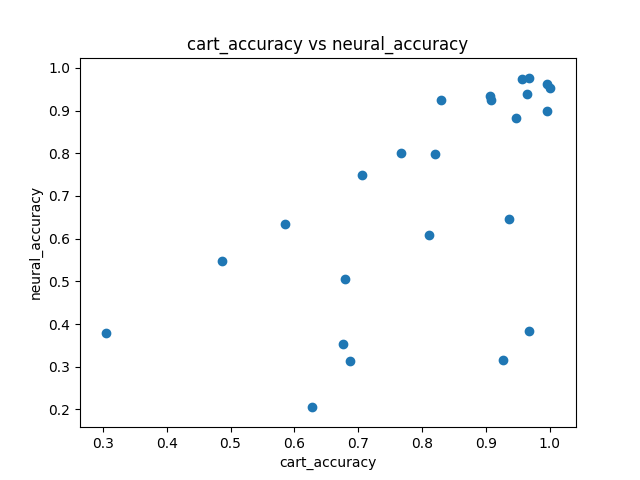
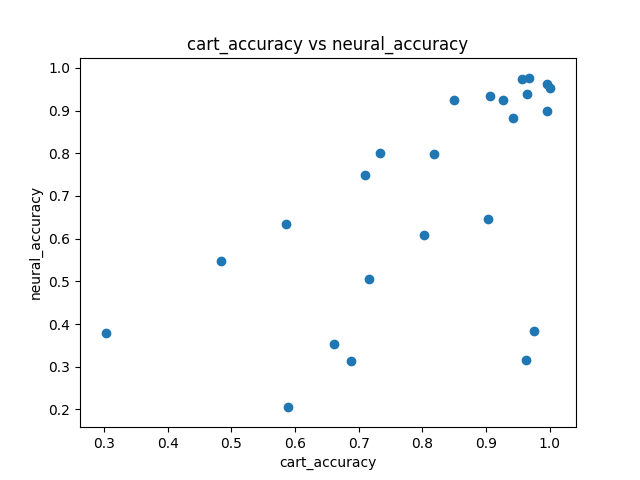
Analysis should include more databases for testing

diff --git a/meta-regressor.py b/meta-regressor.py
@@ -6,6 +6,7 @@ import math
 # from irlmaths import outliers
 from sklearn.model_selection import train_test_split
 from sklearn import metrics
+from sklearn.linear_model import LinearRegression
 from scipy import stats
 
 def outliers(df):
@@ -41,7 +42,8 @@ def knn(df, target):
     entropies = []
 
     for column in df.select_dtypes(include=['int64']).columns:
-        entropies.append(stats.entropy(df[column], base=2))
+        if not(np.isnan(stats.entropy(df[column], base=2))):
+            entropies.append(stats.entropy(df[column], base=2))
 
     df_mean_entropy = np.mean(entropies)
 
@@ -107,9 +109,9 @@ def knn(df, target):
             a1 = meta_df[c].iloc[0]
             a2 = x[c].iloc[i]
 
-            # if (c == 'discrete_ratio') and (a1 == 1.0) and (a2 != 1.0):
-            #     d2 = 1000000000000
-            #     break
+            if (c == 'discrete_ratio') and (a1 == 1.0) and (a2 != 1.0):
+                d2 = 1000000000000
+                break
 
             d2 = d2 + (a1 - a2) ** 2
         d.append(math.sqrt(d2))
@@ -122,7 +124,7 @@ def knn(df, target):
     distances = distances.sort_values(by=['distances'])
     near_db = distances.iloc[0,0]
 
-    print(distances)
+    # print(distances)
 
     ranking = y[y['db']==near_db]
 
@@ -140,6 +142,112 @@ def knn(df, target):
         recomendation = 'neural'
 
     return recomendation + '(' + near_db + ')'
+
+def linear(df, target):
+
+    if 'Unnamed: 0' in df.columns:
+        del df['Unnamed: 0'] # a small workaround regarding csv exporting issues
+
+    # metadata extraction for the new database
+
+    df_examples = np.log2(df.count()[0])
+    df_attributes = np.log2(len(df.columns))
+    df_discrete_ratio = len(df.select_dtypes(include=['int64']).columns) / len(df.columns)
+
+    df_classes = len(df[target].value_counts())
+    df_entropy = stats.entropy(df[target], base=2)
+
+    df_outliers = outliers(df) / df.count()[0]
+
+    entropies = []
+
+    for column in df.select_dtypes(include=['int64']).columns:
+        if not(np.isnan(stats.entropy(df[column], base=2))):
+            entropies.append(stats.entropy(df[column], base=2))
+
+    df_mean_entropy = np.mean(entropies)
+
+    for column in df.select_dtypes(include=['int64']).columns:
+        del df[column]
+
+    df_mean_correlation = np.abs(df.corr()).mean().mean()
+
+    df_mean_skew = df.skew().mean()
+
+    df_mean_kurtosis = df.kurtosis().mean()
+
+    table = {
+        'examples': df_examples,
+        'attributes': df_attributes,
+        'discrete_ratio': df_discrete_ratio,
+        'mean_entropy': df_mean_entropy,
+        'mean_correlation': df_mean_correlation,
+        'mean_skew': df_mean_skew,
+        'mean_kurtosis': df_mean_kurtosis,
+        'outliers': df_outliers,
+        'classes': df_classes,
+        'entropy': df_entropy
+    }
+
+    columns = ['examples', 'attributes', 'discrete_ratio', 'mean_entropy', 'mean_correlation', 'mean_skew', 'mean_kurtosis', 'outliers', 'classes', 'entropy']
+
+    meta_df = pd.DataFrame(table, columns=columns, index=[0])
+
+    print(meta_df)
+
+    meta_df = meta_df.fillna(0)
+    meta_df = meta_df.replace(np.inf, 100)
+    meta_df = meta_df.replace(-np.inf, -100)
+
+    knowledge_df = pd.read_csv('./results/meta-knowledge.csv')
+    del knowledge_df['Unnamed: 0']
+
+    knowledge_df = knowledge_df.fillna(0)
+    knowledge_df = knowledge_df.replace(np.inf, 100)
+    knowledge_df = knowledge_df.replace(-np.inf, -100)
+
+    db = knowledge_df['db']
+
+    # really strong influence over the knn algorithm, maybe it will not be used
+    # del knowledge_df['examples']
+    # del knowledge_df['attributes']
+    # del meta_df['examples']
+    # del meta_df['attributes']
+
+    y_cart = knowledge_df['cart_accuracy']
+    y_naive = knowledge_df['naive_accuracy']
+    y_neural = knowledge_df['neural_accuracy']
+
+    del knowledge_df['db']
+    del knowledge_df['cart_accuracy']
+    del knowledge_df['naive_accuracy']
+    del knowledge_df['neural_accuracy']
+    x = knowledge_df
+
+    # cart regression
+
+    linear = LinearRegression()
+    linear.fit(x, y_cart)
+    cart_pred = linear.predict(meta_df)
+
+    linear = LinearRegression()
+    linear.fit(x, y_naive)
+    naive_pred = linear.predict(meta_df)
+
+    linear = LinearRegression()
+    linear.fit(x, y_neural)
+    neural_pred = linear.predict(meta_df)
+
+    recomendation = ''
+
+    if cart_pred > naive_pred and cart_pred > neural_pred:
+        recomendation = 'cart'
+    if naive_pred > cart_pred and naive_pred > neural_pred:
+        recomendation = 'naive'
+    if neural_pred > cart_pred and neural_pred > naive_pred:
+        recomendation = 'neural'
+
+    return recomendation
 
 from sklearn.tree import DecisionTreeClassifier
 
@@ -219,7 +327,7 @@ print('---------------------------------------------------')
 
 poker = pd.read_csv('./test/poker.csv')
 
-print('database poker recomendation: ', knn(poker, 'class'))
+print('database poker recomendation: ', linear(poker, 'class'))
 print('cart_accuracy', cart('./test/poker.csv', 'class'))
 print('naive_accuracy', naive('./test/poker.csv', 'class'))
 print('neural_accuracy', neural('./test/poker.csv', 'class'))
@@ -229,7 +337,7 @@ print('---------------------------------------------------')
 
 agaricus = pd.read_csv('./test/agaricus-lepiota.csv')
 
-print('database agaricus recomendation: ', knn(agaricus, 'class'))
+print('database agaricus recomendation: ', linear(agaricus, 'class'))
 print('cart_accuracy', cart('./test/agaricus-lepiota.csv', 'class'))
 print('naive_accuracy', naive('./test/agaricus-lepiota.csv', 'class'))
 print('neural_accuracy', neural('./test/agaricus-lepiota.csv', 'class'))
@@ -239,7 +347,7 @@ print('---------------------------------------------------')
 
 car = pd.read_csv('./test/car.csv')
 
-print('database car recomendation: ', knn(car, 'class'))
+print('database car recomendation: ', linear(car, 'class'))
 print('cart_accuracy', cart('./test/car.csv', 'class'))
 print('naive_accuracy', naive('./test/car.csv', 'class'))
 print('neural_accuracy', neural('./test/car.csv', 'class'))
@@ -249,7 +357,7 @@ print('---------------------------------------------------')
 
 lung = pd.read_csv('./test/lung-cancer.csv')
 
-print('database lung recomendation: ', knn(lung, 'A1'))
+print('database lung recomendation: ', linear(lung, 'A1'))
 print('cart_accuracy', cart('./test/lung-cancer.csv', 'A1'))
 print('naive_accuracy', naive('./test/lung-cancer.csv', 'A1'))
 print('neural_accuracy', neural('./test/lung-cancer.csv', 'A1'))
@@ -259,7 +367,7 @@ print('---------------------------------------------------')
 
 vehicle = pd.read_csv('./test/vehicle.csv')
 
-print('database vehicle recomendation: ', knn(vehicle, 'A19'))
+print('database vehicle recomendation: ', linear(vehicle, 'A19'))
 print('cart_accuracy', cart('./test/vehicle.csv', 'A19'))
 print('naive_accuracy', naive('./test/vehicle.csv', 'A19'))
 print('neural_accuracy', neural('./test/vehicle.csv', 'A19'))

diff --git a/irlmaths.py b/irlmaths.py
@@ -38,7 +38,8 @@ def metadata(df, path, target):
     entropies = []
 
     for column in df.select_dtypes(include=['int64']).columns:
-        entropies.append(stats.entropy(df[column], base=2))
+        if not(np.isnan(stats.entropy(df[column], base=2))):
+            entropies.append(stats.entropy(df[column], base=2))
 
     df_mean_entropy = np.mean(entropies)
 
